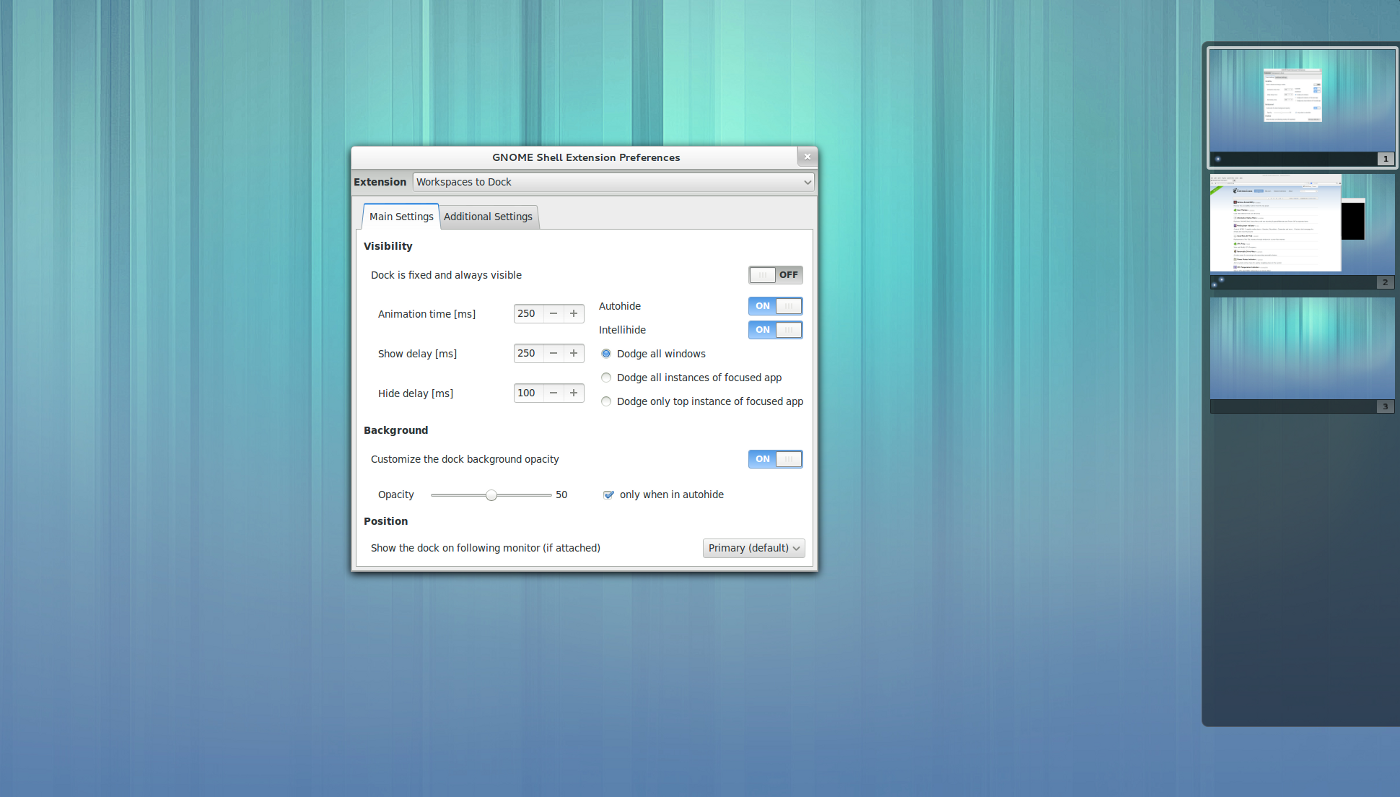
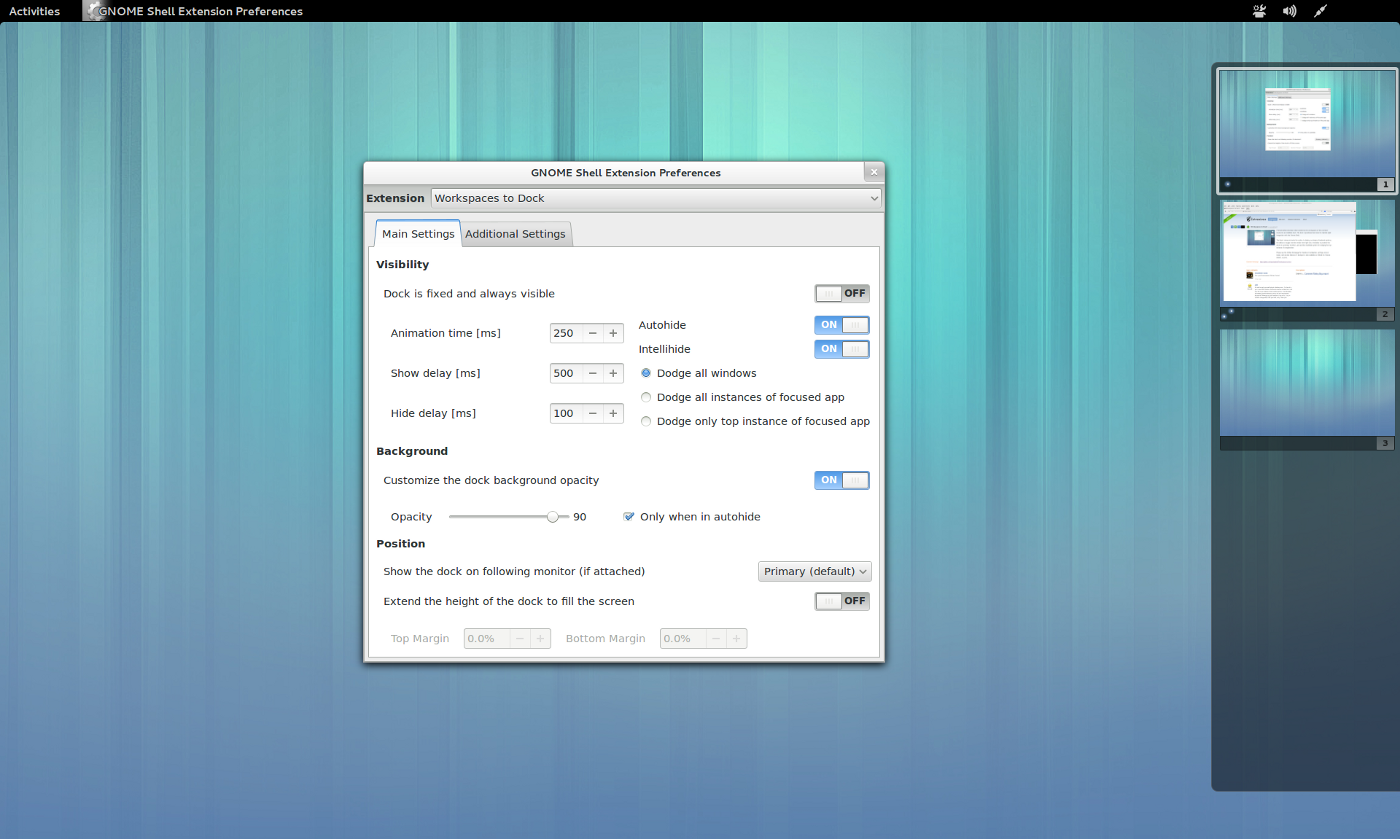
Updated readme and screenshots

Changed region(s): [[0.0, 0.0, 1.0, 0.9636]]

diff --git a/README.md b/README.md
@@ -10,15 +10,18 @@ Installation:
 ------------
 The easiest way to install Workspaces-to-Dock is from https://extensions.gnome.org/extension/427/workspaces-to-dock/ using your browser.
 
-If you would rather install it manually, please download the appropriate zip file from the releases branch on Github (https://github.com/passingthru67/workspaces-to-dock/tree/releases). That zip file contains the same non-debug version of the extension as https://extensions.gnome.org and can be installed using Gnome Tweak tool.
+If you would rather install it manually, download the releases branch on Github (https://github.com/passingthru67/workspaces-to-dock/tree/releases) and locate the appropriate release zip file. The release zip file contains the same non-debug version of the extension as https://extensions.gnome.org. The zip file can be extracted manually to the extensions folder or installed by using Gnome Tweak tool.
 
-	Gnome Tweak tool --> Shell Extensions --> Install from zip file --> choose the zip file.
+    $unzip workspaces-to-dock@passingthru67@gmail.com.zip -d ~/.local/share/gnome-shell/extensions/workspaces-to-dock@passingthru67@gmail.com
 
-If you're checking out code from the master branch (downloaded as zip or tar.gz), you will find an installation zip file inside with the latest updates and fixes. The version number is 0 signifying it is not a release version. You simply need to extract it and manually copy it into your ~/.local/share/gnome-shell/extensions/ folder. You may also install it using the Gnome Tweak tool.
+or
+     
+    Gnome Tweak tool --> Shell Extensions --> Install from zip file --> choose the zip file.
 
-	$ unzip workspaces-to-dock@passingthru67@gmail.com.zip -d ~/.local/share/gnome-shell/extensions/workspaces-to-dock@passingthru67@gmail.com
+If you're checking out code from the master branch (downloaded as zip or tar.gz), you will find an installation zip file inside with the latest updates and fixes. The version number is 0 signifying it is not a release version. The zip file can be extracted manually to the extensions folder or installed by using the Gnome Tweak tool as described above.
 
-Configure using `gnome-shell-extension-prefs`. No shell restarts required.
+
+The extension can be configured using `gnome-shell-extension-prefs`. No shell restarts are required.
 
 
 Main Settings:
@@ -44,7 +47,7 @@ Main Settings:
 
 	**Show delay** - The time delayed before sliding the dock to the visible state.
 		
-	**NOTE: If you are having trouble with the mouse accidentally touching the right edge of the screen (usually due to using vertical scroll bars), adjust this delay higher (say around 700ms).**
+	**NOTE: If you are having trouble with the mouse accidentally touching the right edge of the screen (usually due to using vertical scroll bars), adjust this delay higher (~ 700ms).**
 
 	**Hide delay** - The time delayed before sliding the dock to the hidden state.
 
@@ -60,6 +63,12 @@ Main Settings:
 
 	**Show the dock on following monitor (if attached)** - Option to position the workspaces dock on a secondary monitor in dual monitor configurations.
 
+    **Extend the height of the dock to fill the screen** - Option to extend the height of the dock to fill the screen.
+
+    **Top Margin** - Allows setting a top margin for the extended dock. The range allowed is 0% to 15% of the screen height.
+
+    **Bottom Margin** - Allows setting a bottom margin for the extended dock. The range allowed is 0% to 15% of the screen height.
+
 
 Additional Settings:
 --------------------
@@ -70,7 +79,7 @@ Additional Settings:
 
 	**Add captions to workspace thumbnails** - Adds captions to the workspace thumbnails.
 
-	**NOTE: Version 9 auto detects when a theme supports workspaces-to-dock. Theme writers should place the 'workspaces-to-dock.css' stylesheet in ./themes/<usertheme>/gnome-shell/extensions/ folder and use the @import directive in 'gnome-shell.css' to incorporate the stylesheet. If no theme support is detected, the extension's default theme will be used.**
+	**NOTE: Version 9 auto detects if a theme supports workspaces-to-dock. Theme writers should place the 'workspaces-to-dock.css' stylesheet in ./themes/usertheme/gnome-shell/extensions/ folder and use the @import directive to incorporate the stylesheet into gnome-shell.css. If no theme support is detected, the extension's default theme will be used.**
 
 	**Show the workspace number** - When enabled, the workspace number is shown in the caption. It can be expanded to take up available space or its position can be adjusted using the arrow buttons.
 
@@ -95,12 +104,11 @@ Additional Settings:
 
 Workspace Caption Theming:
 -------------------------
-Adding support for workspaces-to-dock captions to a theme can be accomplished by incorporating the css classes found in workspace-captions.css (see extension folder) into the theme. If you prefer to maintain a separate css stylesheet for workspaces-to-dock captions, you can incorporate it into your theme using the @import directive. Please see the workspace-captions.css stylesheet for a description of these css classes.
+Adding workspaces-to-dock caption support to a theme can be accomplished by placing a custom 'workspaces-to-dock.css' stylesheet in the theme's gnome-shell/extensions/ folder. Workspaces-to-dock will detect the presence of this stylesheet file and disable the default style. You can then use the @import directive to incorporate the stylesheet classes into your theme's gnome-shell.css. Please see the workspace-captions.css stylesheet for a description of the css classes.
 
 
 Features Planned:
 -----------------
-- Localization
 - Editing the workspace caption name.
 - Closing workspaces (and all associated windows) with mouse click
 - RTL support
@@ -135,13 +143,20 @@ To reset the extension to its default settings, type the command below in a term
 
 If the behavior persists, try disabling all other extensions and enable each extension one at a time until the behavior reappears. You may be experiencing a conflict with another extension.
 
-If the behavior persists with other extensions disabled, check for extension errors in Looking Glass (Gnome Shell 3.4) or by typing gnome-shell --replace in a terminal and watching for JS error logs.
+If the behavior persists with other extensions disabled, check for extension errors in Looking Glass (Gnome Shell 3.4) or by typing gnome-shell --replace in a terminal and watching for JS error logs related to the extension.
 
 If the problem persists, please report it by opening an issue on github or with a bug report message on the extension website.
 
 
 Change Log:
 -----------
+**version 9 (Feb 22, 2013)**
+
+- Language support added
+- Auto detect if user theme supports workspaces-to-dock
+- Option to extend dock height to fill the screen
+- Bug fixes
+
 **version 8 (Jan 26, 2013)**
 
 - Option to display workspace thumbnail captions (feature)
